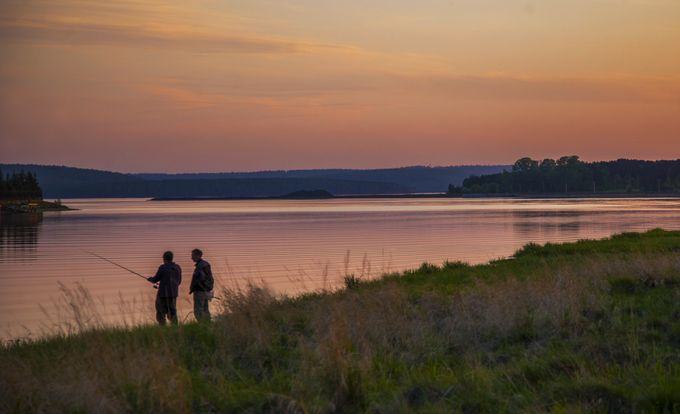
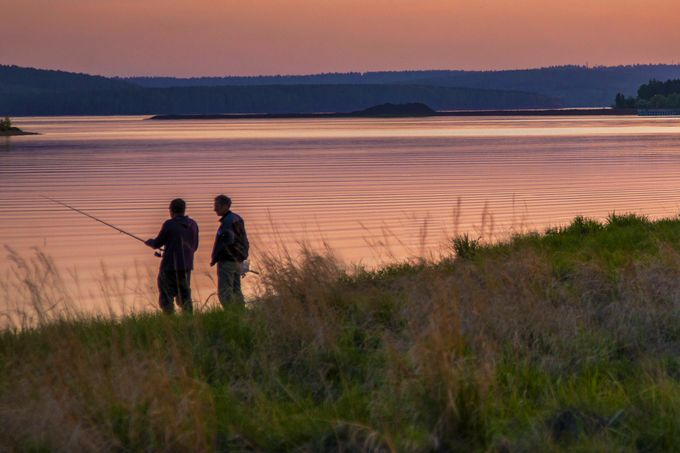
Подписи через выгоду, короткий интро и защита от повторов фото
Подписи: «дети катаются», «велосипед» и «вид из окон» переписаны так,
что первым идёт выгода, а не описание кадра — безопасность вместо
констатации. Убрано обещание «выше ничего не стоит».

Кадр с рыбаками перекадрирован и осветлён: в превью галереи фигуры
читаются, вместо пустого сумеречного пейзажа.

Приветственный текст главной сокращён с 812 до 342 знаков.

Повторы: gallery() больше не показывает один и тот же файл дважды в
пределах страницы, роутер сбрасывает счётчик на каждом переходе.
Галерея-герой отдаёт кадры леса, спорта и архитектуры секции про
окружение, а не забирает их себе. Проверено на всех 14 маршрутах —
повторов нет.

diff --git a/assets/js/views.js b/assets/js/views.js
@@ -22,6 +22,13 @@
   /* Галерея с лайтбоксом. list — массив {s, th, t} */
   function gallery(list, cls) {
     if (!list || !list.length) return '';
+    /* один и тот же кадр не повторяется в пределах страницы: DK.seen сбрасывает роутер */
+    DK.seen = DK.seen || {};
+    list = list.filter(function (x) {
+      if (!x || !x.s || DK.seen[x.s]) return false;
+      DK.seen[x.s] = 1; return true;
+    });
+    if (!list.length) return '';
     var payload = esc(JSON.stringify(list.map(function (x) { return { s: x.s, t: x.t }; })));
     return '<div class="gal ' + (cls || '') + '" data-gal-box="' + payload + '">' +
       list.map(function (x, i) {
@@ -440,17 +447,17 @@
 
     var hero = mix([
       commonBy('lyudi', 4),
-      commonBy('les', 3),
       commonBy('dvor', 3),
-      commonBy('sport', 3),
       commonBy('terrasa', 2),
-      commonBy('arh', 3),
-      commonBy('zaliv', 1),
-      commonBy('dom', 2),
+      commonBy('dom', 3),
+      commonBy('les', 1),
+      commonBy('arh', 1),
+      commonBy('sport', 1),
       commonBy('balkon', 1),
+      commonBy('uchastok', 1),
       commonBy('aero', 1),
-      commonBy('uchastok', 1)
-    ]).slice(0, 24);
+      commonBy('priroda', 1)
+    ]).slice(0, 18);
 
     var tasks = [
       ['Найти квартиру под клиента', 'Генплан, живой реестр, фильтры по спальням, террасе и участку. Фото есть почти по каждому лоту — отправляйте клиенту прямо отсюда.', '#/flats', 'Открыть реестр'],
@@ -472,8 +479,8 @@
     return sec(
       eyebrow('Партнёрам · реестр от ' + esc(s.obnovleno)) +
       '<h1>Объект, который продаёт себя сам. Ваша задача — привезти клиента</h1>' +
-      '<p class="lead">«Хрустальный парк» — девять кварталов на Байкальском тракте, больше трёх тысяч жителей. Датский сдан в декабре 2025-го: дома заселены, деревья растут, во дворах гуляют дети. Магазин, пекарня, кафе, ФАП, аптека и садик — пешком, до сорока с лишним секций Байкал-Арены четырнадцать минут, лес в ста метрах, залив примерно в пятистах. Больше тридцати событий в год, и половину придумывают сами жители.</p>' +
-      '<p class="lead">В вашем списке жилых комплексов второго такого нет, и это ваш аргумент. Уговаривать не придётся: покажите двор без машин, террасу на закате и соседей, которые здороваются. Через год клиент возвращается с рекомендацией, а не с претензией. Комиссия — 4,5% от цены договора, закрепление на 60 дней, персональный менеджер ведёт сделку вместе с вами.</p>' +
+      '<p class="lead">Датский — девятый квартал «Хрустального парка» на Байкальском тракте. Сдан в декабре 2025-го: дома заселены, дворы обжиты, магазин и садик пешком, лес в ста метрах, залив в пятистах.</p>' +
+      '<p class="lead">Уговаривать клиента не придётся — достаточно привезти. Комиссия 4,5% от цены договора, закрепление на 60 дней, персональный менеджер ведёт сделку вместе с вами.</p>' +
       '<div class="actions" style="margin-bottom:34px">' +
       '<a class="btn" href="#/flats">Открыть реестр</a>' +
       '<a class="btn btn--ghost" href="#/tour">Фотоэкскурсия</a>' +
@@ -515,7 +522,7 @@
       '<div class="card"><h4>Спорт по всем девяти кварталам</h4><p class="small" style="margin:0">Воркаут-площадки, спортивные коробки с покрытием, теннисные столы. Житель Датского ходит на любую: микрорайон общий, гуляют по всей территории.</p></div>' +
       '<div class="card"><h4>Байкал-Арена за 14 минут</h4><p class="small" style="margin:0">Больше сорока секций для детей от трёх лет, бассейн 25 метров, залы и сауна. Две поездки в неделю вместо ежедневного городского маршрута по трём адресам.</p></div>' +
       '</div>' +
-      gallery(mix([commonBy('zaliv'), commonBy('les'), commonBy('sport'), commonBy('arh')]), 'gal--wide') +
+      gallery(mix([commonBy('zaliv'), commonBy('les'), commonBy('sport'), commonBy('arh'), commonBy('priroda')]), 'gal--wide') +
       '<div class="actions"><a class="btn btn--ghost" href="#/park">Что вокруг: три пояса инфраструктуры</a>' +
       '<a class="btn btn--ghost" href="#/life">Как здесь живут круглый год</a></div>'
     ) +
@@ -1372,12 +1379,8 @@
     var L = d().life;
     var pics = mix([
       commonBy('lyudi', 8),
-      commonBy('sport', 5),
       commonBy('dvor', 4),
-      commonBy('les', 3),
-      commonBy('arh', 3),
-      commonBy('zaliv', 1),
-      commonBy('priroda', 2),
+      commonBy('arh', 2),
       commonBy('aero', 2)
     ]);
 

diff --git a/index.html b/index.html
@@ -91,8 +91,8 @@
 <!-- TODO: счётчик Яндекс.Метрики для партнёрского поддомена не заведён.
      Основной сайт — 97996431, лендинг Датского — 96038525. Нужен отдельный номер. -->
 
-<script src="assets/js/app.js?v=13"></script>
-<script src="assets/js/views.js?v=42"></script>
+<script src="assets/js/app.js?v=14"></script>
+<script src="assets/js/views.js?v=44"></script>
 <script>DK.start();</script>
 </body>
 </html>

diff --git a/assets/js/app.js b/assets/js/app.js
@@ -119,6 +119,7 @@ window.DK = (function () {
       return;
     }
     var view = DK.views[r.path] || DK.views.notfound;
+    DK.seen = {};
     app.innerHTML = view(r);
     document.title = (DK.pageTitle || 'Датский квартал') + ' — партнёрский сайт';
     DK.pageTitle = null;
